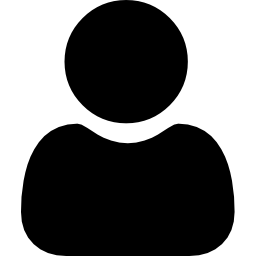
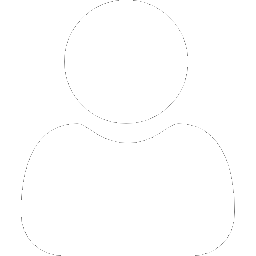
button fix

diff --git a/skaf/Screen/JanelaPrincipal.xaml b/skaf/Screen/JanelaPrincipal.xaml
@@ -5,7 +5,7 @@
         xmlns:mc="http://schemas.openxmlformats.org/markup-compatibility/2006"
         xmlns:local="clr-namespace:skaf"
         mc:Ignorable="d"
-        Title="JanelaPrincipal" Height="450" Width="798" WindowStyle="None" AllowsTransparency="True" Background="Transparent" >
+        Title="Ska Mail" Height="450" Width="798" WindowStyle="None" AllowsTransparency="True" Background="Transparent" >
     <Grid Margin="0" Background="White">
         <DockPanel LastChildFill="False">
             <Grid DockPanel.Dock="Top" Height="38" Background="#FF0767B7" MouseLeftButtonDown="drag">
@@ -15,7 +15,7 @@
                     </Rectangle.OpacityMask>
 
                 </Rectangle>
-                <Rectangle MouseLeftButtonDown="Rectangle_MouseLeftButtonDown" Height="32" Margin="731,0,28,0" VerticalAlignment="Center" RadiusX="13.5" RadiusY="13.5" Fill="#FF16324A">
+                <Rectangle MouseLeftButtonDown="Rectangle_MouseLeftButtonDown" Height="32" Margin="749,0,10,0" VerticalAlignment="Center" RadiusX="13.5" RadiusY="13.5" Fill="#FF16324A">
                     <Rectangle.Style>
                         <Style TargetType="Rectangle">
                             <Setter Property="Cursor" Value="Arrow"/>
@@ -27,24 +27,37 @@
                         </Style>
                     </Rectangle.Style>
                 </Rectangle>
-                <Rectangle MouseLeftButtonDown="AbrirMenu" Height="32" Margin="677,0,82,0" VerticalAlignment="Center" RadiusX="13.5" RadiusY="13.5" Fill="#FF16324A">
-                    <Rectangle.Style>
-                        <Style TargetType="{x:Type Rectangle}">
-                            <Setter Property="Cursor" Value="Arrow"/>
-                            <Style.Triggers>
-                                <Trigger Property="IsMouseOver" Value="True">
-                                    <Setter Property="Cursor" Value="Hand"/>
-                                </Trigger>
-                            </Style.Triggers>
+                <Button MouseLeftButtonDown="AbrirMenu" Height="32" Margin="705,0,54,0" VerticalAlignment="Center">
+                    <Button.Style >
+                        <Style TargetType="Button">
+                            <Style.Setters>
+                                <Setter Property="Template">
+                                    <Setter.Value>
+                                        <ControlTemplate TargetType="Button">
+                                            <Border CornerRadius="13.5" Background="#FF0767B7">
+                                                <ContentPresenter  >
+                                                    <ContentPresenter.Content>
+                                                        <Image Source="/res/eng.png" Margin="1,0,1,0" ></Image>
+                                                    </ContentPresenter.Content>
+                                                </ContentPresenter>
+                                            </Border>
+
+                                        </ControlTemplate>
+                                    </Setter.Value>
+                                </Setter>
+                            </Style.Setters>
                         </Style>
-                    </Rectangle.Style>
-                </Rectangle>
+                    </Button.Style>
+
+
+                </Button>
 
 
             </Grid>
             <Grid Width="799">
 
-                <StackPanel Panel.ZIndex="5" x:Name="MenuBar" HorizontalAlignment="Left" Margin="0,0,0,-1" Background="#FF055486" MaxWidth="295" Width="0" >
+                <StackPanel Panel.ZIndex="5" x:Name="MenuBar" HorizontalAlignment="Left" Margin="0,0,0,-1" Background="#FF055486" MaxWidth="295" Width="0
+                            " >
                     <UIElement.RenderTransform>
                         <TransformGroup>
                             <ScaleTransform ScaleX="1"/>
@@ -55,7 +68,7 @@
                     </UIElement.RenderTransform>
                     <Grid Height="89">
                         <Image HorizontalAlignment="Left" Margin="21,10,0,13" Width="68" Source="/res/user.png"/>
-                        <Label x:Name="userName" Content="Configurações&#xD;&#xA;" Margin="97,24,30,22" FontSize="20"/>
+                        <Label x:Name="userName" Content="Configurações&#xD;&#xA;" Margin="97,24,30,22" FontSize="20" Foreground="White"/>
                     </Grid>
                     <Button Content="Perfil
                             "  Height="64" BorderThickness="0,1,0,1" BorderBrush="Transparent" Foreground="White" FontSize="22" FontFamily="Yu Gothic UI Semibold" Focusable="False" Click="MostrarPerfil">

diff --git a/skaf/Screen/Config.xaml b/skaf/Screen/Config.xaml
@@ -11,12 +11,42 @@
             <ColumnDefinition Width="479*"/>
             <ColumnDefinition Width="321*"/>
         </Grid.ColumnDefinitions>
+        <Ellipse HorizontalAlignment="Left" Height="336" Margin="-86,0,0,0" VerticalAlignment="Center" Width="282" Fill="#FF18577B"/>
+
         <TextBox x:Name="NomeBox" HorizontalAlignment="Left" Margin="201,57,0,0" TextWrapping="Wrap" Text="" VerticalAlignment="Top" Width="575" Grid.ColumnSpan="2"/>
         <TextBox HorizontalAlignment="Left" Margin="201,91,0,0" TextWrapping="Wrap" Text="Pessoas &amp; Cultura" VerticalAlignment="Top" Width="575" Grid.ColumnSpan="2"/>
         <TextBox x:Name="LinkedinBox" HorizontalAlignment="Left" Margin="201,160,0,0" TextWrapping="Wrap" Text="" VerticalAlignment="Top" Width="575" Grid.ColumnSpan="2"/>
         <TextBox x:Name="FoneBox" HorizontalAlignment="Left" Margin="201,127,0,0" TextWrapping="Wrap" Text="" VerticalAlignment="Top" Width="575" Grid.ColumnSpan="2"/>
-        <Image x:Name="ImageBox" HorizontalAlignment="Left" Height="130" Margin="32,48,0,0" VerticalAlignment="Top" Width="143" Stretch="Fill" Source="/Screen/alek2.png"/>
+        <Image x:Name="ImageBox" HorizontalAlignment="Left" Height="130" Margin="10,48,0,0" VerticalAlignment="Top" Width="143" Stretch="Fill" Source="/res/user.png" OpacityMask="White">
+            <Image.Effect>
+                <DropShadowEffect BlurRadius="15" ShadowDepth="0"/>
+            </Image.Effect>
+        </Image>
         <Button Grid.Column="1" Content="confirmar" HorizontalAlignment="Right" Margin="0,0,24,10" Width="216" Height="20" VerticalAlignment="Bottom" Click="submit"/>
+        <Button Margin="26,220,360,6" Background="{x:Null}" Foreground="#FFFDFDFD" BorderBrush="{x:Null}" Click="MudarFotoClick">
+            <Button.Style>
+                <Style TargetType="Button">
+                    <Style.Setters >
+                        <Setter Property="Template">
+                            <Setter.Value>
+                                <ControlTemplate TargetType="Button">
+                                    <ContentPresenter>
+                                        <ContentPresenter>
+                                            <Border>
+                                                <StackPanel Orientation="Horizontal" Margin="0,0,-8,0">
+                                                    <Image Source="/res/edit.png" HorizontalAlignment="Left"/>
+                                                    <Label Content="Mudar foto" Margin="0,0,18,0"/>
+                                                </StackPanel>
+                                            </Border>
+                                        </ContentPresenter>
+                                    </ContentPresenter>
+                                </ControlTemplate>
+                            </Setter.Value>
+                        </Setter>
+                    </Style.Setters>
+                </Style>
+            </Button.Style>
+        </Button>
 
     </Grid>
 </Window>

diff --git a/skaf/Screen/LoginScreen.xaml b/skaf/Screen/LoginScreen.xaml
@@ -5,7 +5,7 @@
         xmlns:mc="http://schemas.openxmlformats.org/markup-compatibility/2006"
         xmlns:local="clr-namespace:skaf"
         mc:Ignorable="d"
-        Title="LoginScreen" Height="325" Width="590" AllowsTransparency="True" Background="Transparent" WindowStyle="None" ResizeMode="NoResize" Topmost="False" WindowStartupLocation="CenterScreen" MouseLeftButtonDown="Window_MouseLeftButtonDown">
+        Title="Login" Height="325" Width="590" AllowsTransparency="True" Background="Transparent" WindowStyle="None" ResizeMode="NoResize" Topmost="False" WindowStartupLocation="CenterScreen" MouseLeftButtonDown="Window_MouseLeftButtonDown">
     <Grid>
         <Ellipse x:Name="bolaBack" HorizontalAlignment="Center" Height="0" Stroke="Black" VerticalAlignment="Center" Width="0" Fill="White" Loaded="Load"/>
         <Canvas x:Name="graphs" Loaded="Animar">

diff --git a/skaf/Screen/LoginScreen.xaml.cs b/skaf/Screen/LoginScreen.xaml.cs
@@ -19,7 +19,7 @@ namespace skaf
     /// </summary>
     public partial class LoginScreen : Window
     {
-        UpdateManager manager;
+       
 
         public  static User ?usuario;
         public static GraphServiceClient graphClient;
@@ -28,35 +28,35 @@ namespace skaf
             InitializeComponent();
            
         }
-        private async void Atualizar()
-        {
-            await manager.UpdateApp();
-            MessageBox.Show("Reinicie o app!");
-            this.Close();
-        }
+        //private async void Atualizar()
+        //{
+        //    await manager.UpdateApp();
+        //    MessageBox.Show("Reinicie o app!");
+        //    this.Close();
+        //}
 
-        private async void VerificarAtualizacoes()
-        {
-            manager = await UpdateManager.GitHubUpdateManager(@"https://github.com/OPifenomeno/SKA_Forge");
+        //private async void VerificarAtualizacoes()
+        //{
+        //    manager = await UpdateManager.GitHubUpdateManager(@"https://github.com/OPifenomeno/SKA_Forge");
 
 
-            var updInfo = await manager.CheckForUpdate();
-            if(updInfo.ReleasesToApply.Count > 0)
-            {
-               MessageBoxResult result = System.Windows.MessageBox.Show("Há atualizações disponíveis. Deseja aplicá-las?","Atualização Disponível",MessageBoxButton.YesNo,MessageBoxImage.None,MessageBoxResult.No);
-                if (result == MessageBoxResult.Yes) {
+        //    var updInfo = await manager.CheckForUpdate();
+        //    if(updInfo.ReleasesToApply.Count > 0)
+        //    {
+        //       MessageBoxResult result = System.Windows.MessageBox.Show("Há atualizações disponíveis. Deseja aplicá-las?","Atualização Disponível",MessageBoxButton.YesNo,MessageBoxImage.None,MessageBoxResult.No);
+        //        if (result == MessageBoxResult.Yes) {
 
-                    Atualizar();
+        //            Atualizar();
                     
-                }
+        //        }
             
-            }
+        //    }
         
-        }
+        //}
 
         private void Load(object sender, RoutedEventArgs e)
         {
-            try { VerificarAtualizacoes(); } catch (Exception es){ MessageBox.Show(es.Message); }
+           // try { VerificarAtualizacoes(); } catch (Exception es){ MessageBox.Show(es.Message); }
            
             ska_logo.BeginAnimation(OpacityProperty, new DoubleAnimation()
             {

diff --git a/skaf/Screen/JanelaPrincipal.xaml.cs b/skaf/Screen/JanelaPrincipal.xaml.cs
@@ -1,5 +1,6 @@
 
 using skaf.Screen;
+using Squirrel;
 using System.IO;
 using System.Windows;
 using System.Windows.Controls;
@@ -14,6 +15,7 @@ namespace skaf
     /// </summary>
     public partial class JanelaPrincipal : Window
     {
+        UpdateManager manager;
         public JanelaPrincipal()
 
         {
@@ -21,12 +23,44 @@ namespace skaf
             InitializeComponent();
            
             carregarModelos();
+           try { VerificarAtt(); } catch (Exception es){ MessageBox.Show(es.Message); }
         }
-         void carregarModelos() {
 
-           
+        private async void Atualizar()
+        {
+            
+            await manager.UpdateApp();
+            MessageBox.Show("Reinicie o app!");
+            this.Close();
+        }
+
+        private async void VerificarAtt()
+        {
+            manager = await UpdateManager.GitHubUpdateManager(@"https://github.com/OPifenomeno/SKA_Forge");
 
 
+            var updInfo = await manager.CheckForUpdate();
+            if (updInfo.ReleasesToApply.Count > 0)
+            {
+                MessageBoxResult result = System.Windows.MessageBox.Show("Há atualizações disponíveis. Deseja aplicá-las?", "Atualização Disponível", MessageBoxButton.YesNo, MessageBoxImage.None, MessageBoxResult.No);
+                if (result == MessageBoxResult.Yes)
+                {
+
+                    Atualizar();
+
+                }
+
+
+            }
+        }
+
+
+
+
+
+
+        void carregarModelos() {
+            conteiner.Children.Clear();
             DirectoryInfo past = new DirectoryInfo(System.IO.Path.Combine(AppDomain.CurrentDomain.BaseDirectory,"Emails"));
             if (past.Exists)
             {
@@ -39,6 +73,7 @@ namespace skaf
                     conteiner.Children.Add(gp);
                     }
                 });
+
             }
             else {
                 past.Create();

diff --git a/skaf/Screen/Config.xaml.cs b/skaf/Screen/Config.xaml.cs
@@ -83,6 +83,9 @@ namespace skaf.Screen
            
         }
 
-
+        private void MudarFotoClick(object sender, RoutedEventArgs e)
+        {
+            MessageBox.Show("Em breve");
+        }
     }
 }
